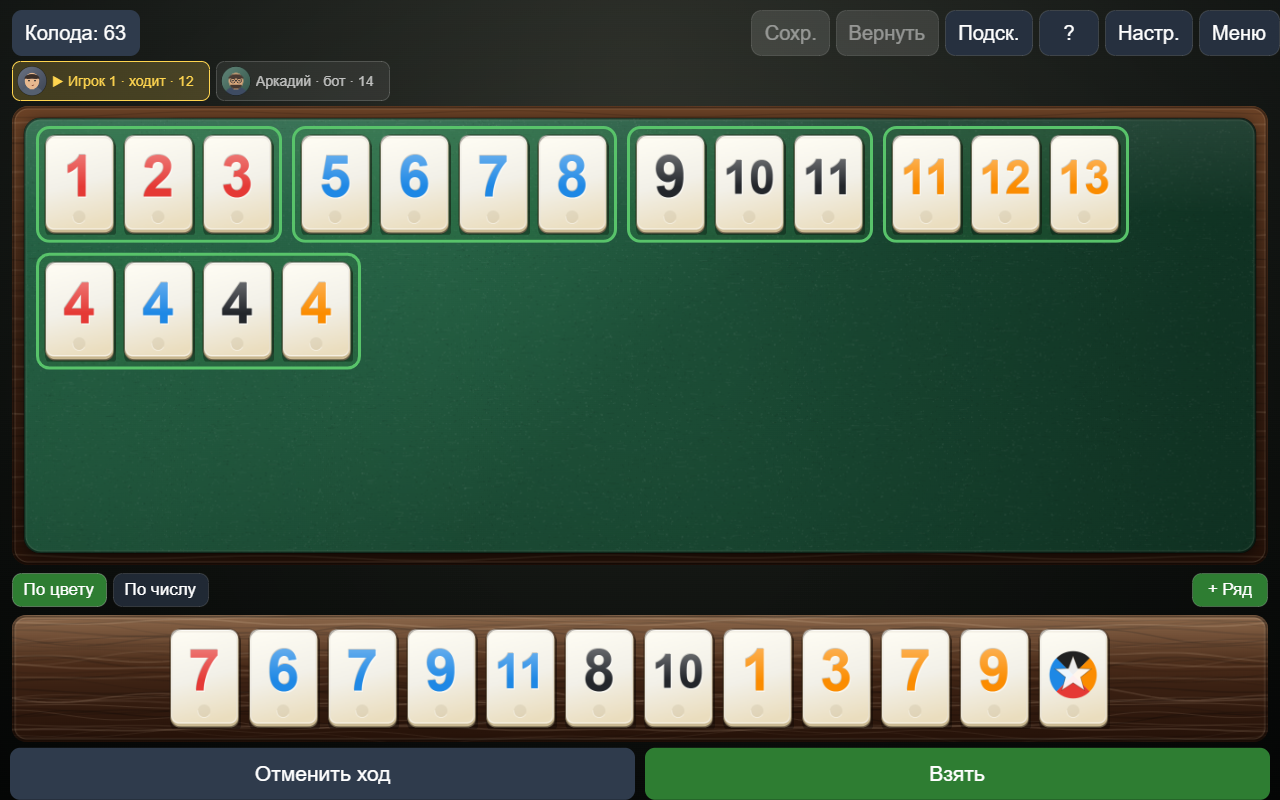
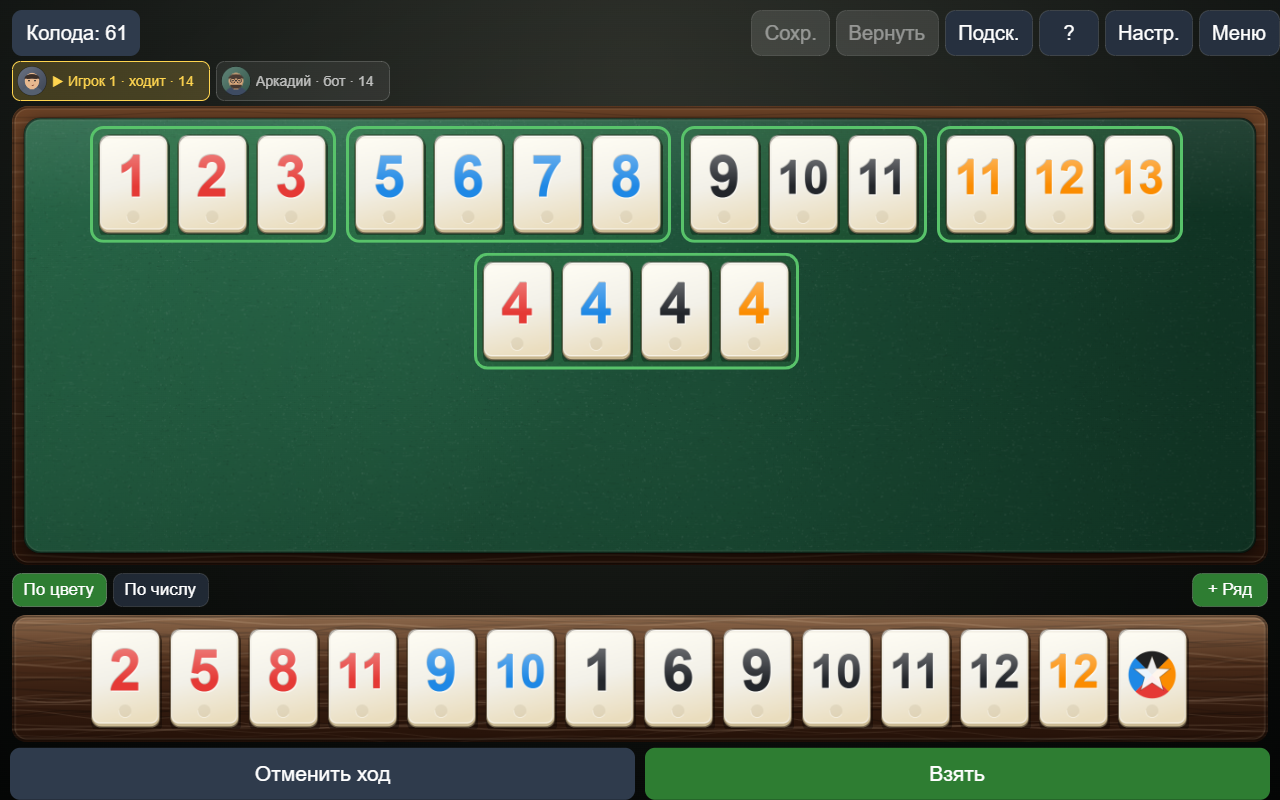
Center table row lines on the felt
Each line of row blocks, including the +Row placeholder, is centered within the table width.

diff --git a/babylon/src/ui2/offline_game.ts b/babylon/src/ui2/offline_game.ts
@@ -3215,25 +3215,43 @@ export class OfflineGame {
     }
     const gapX = 10;
     const gapY = 10;
-    let x = PAD_X;
-    let y = 8;
-    let lineH = 0;
+    // Сначала раскладываем ряды по линиям, затем центрируем каждую линию
+    // по сукну: короткая линия стоит по центру, а не прижимается влево.
+    const lines: { figs: RowFig[]; w: number }[] = [];
+    let cur: RowFig[] = [];
+    let curW = 0;
     for (const fig of rows) {
-      if (x > PAD_X && x + fig.w > PAD_X + maxW) {
-        x = PAD_X;
-        y += lineH + gapY;
-        lineH = 0;
+      const add = cur.length > 0 ? gapX + fig.w : fig.w;
+      if (cur.length > 0 && curW + add > maxW) {
+        lines.push({ figs: cur, w: curW });
+        cur = [fig];
+        curW = fig.w;
+      } else {
+        cur.push(fig);
+        curW += add;
       }
-      fig.root.horizontalAlignment = Control.HORIZONTAL_ALIGNMENT_LEFT;
-      fig.root.verticalAlignment = Control.VERTICAL_ALIGNMENT_TOP;
-      fig.root.left = px(x);
-      fig.root.top = px(y);
-      this.rowsInner.addControl(fig.root);
-      this.rowFigs.push(fig);
-      x += fig.w + gapX;
-      lineH = Math.max(lineH, fig.h);
     }
-    this.rowsInner.height = px(y + lineH + 10);
+    if (cur.length > 0) lines.push({ figs: cur, w: curW });
+
+    let y = 8;
+    let bottom = 8;
+    for (const line of lines) {
+      let x = PAD_X + Math.max(0, Math.round((maxW - line.w) / 2));
+      let lineH = 0;
+      for (const fig of line.figs) {
+        fig.root.horizontalAlignment = Control.HORIZONTAL_ALIGNMENT_LEFT;
+        fig.root.verticalAlignment = Control.VERTICAL_ALIGNMENT_TOP;
+        fig.root.left = px(x);
+        fig.root.top = px(y);
+        this.rowsInner.addControl(fig.root);
+        this.rowFigs.push(fig);
+        x += fig.w + gapX;
+        lineH = Math.max(lineH, fig.h);
+      }
+      bottom = y + lineH;
+      y += lineH + gapY;
+    }
+    this.rowsInner.height = px(bottom + 10);
   }
 
   private makeRowBlock(
